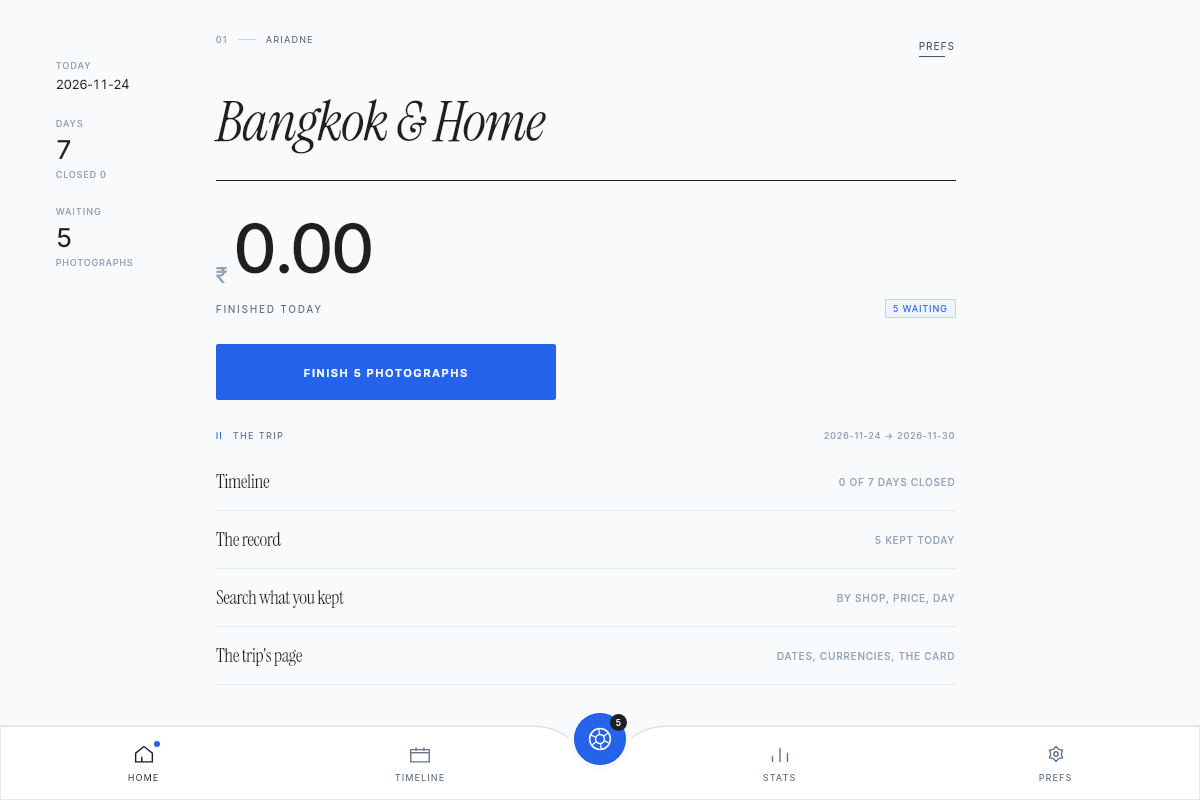
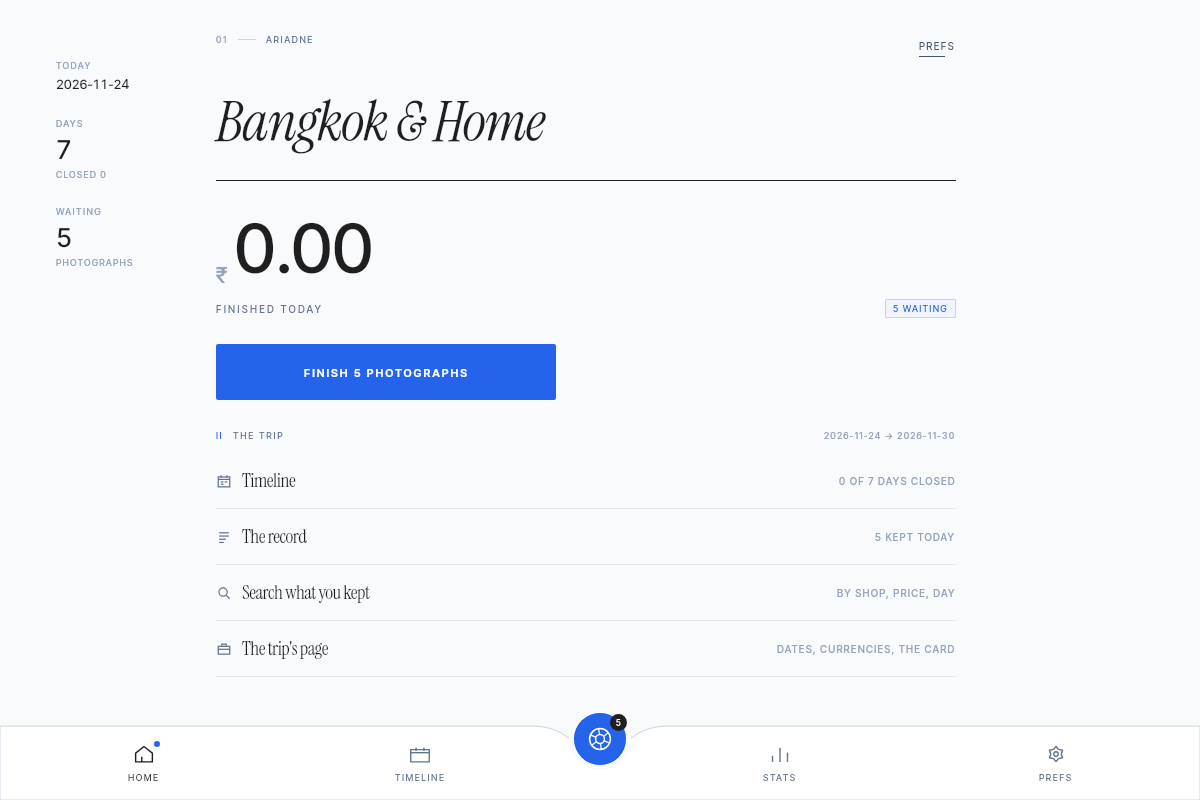
One blue thing per page
The recurring defect across the frames was not colour or type: it was two
competing primary actions, which is what a layout does when it has no opinion
about which choice matters.

Nightfall on a wide page had Confirm and Close the day as two identical
full-width blue bars. Closing is how you leave, not a second decision, so it is
now a hairline bar under a rule with a caption stating what it costs. Confirm is
the only blue.

The same page had the plate on a fixed 4:5 box inside a weighted row, which
overran the viewport and cut its caption off the bottom. The plate takes the
space that is left now, and the stack position and Earlier/Later sit under it.

The trip's page stacked See every day over Close the trip into a card; closing
is the action now and the record is a quiet exit. Its place and budget appear
here for the first time, hung under the dates with their glyphs.

Home's index was four rows of bare serif. Each row carries a glyph in the
hanging margin, so it scans as a list of places rather than four lines of type
that happen to be different words. Prefs got the same treatment.

Verified: 50 flow checks, 70 domain tests, 21 frames.

diff --git a/ui/app/src/commonMain/kotlin/com/ariadne/app/ui/pages/TripPage.kt b/ui/app/src/commonMain/kotlin/com/ariadne/app/ui/pages/TripPage.kt
@@ -25,6 +25,8 @@ import com.ariadne.design.Action
 import com.ariadne.design.Body
 import com.ariadne.design.Bone
 import com.ariadne.design.FigureRow
+import com.ariadne.design.Glyph
+import com.ariadne.design.Icon
 import com.ariadne.design.Label
 import com.ariadne.design.Numeral
 import com.ariadne.design.OutlineAction
@@ -44,7 +46,7 @@ import com.ariadne.model.Money
  * where "the trip is the container" becomes visible in one screen.
  */
 @Composable
-public fun TripPage(state: AppUiState, model: AppModel, paper: Paper) {
+public fun TripPage(state: AppUiState, model: AppModel, paper: Paper, wide: Boolean = false) {
     val trip = state.trip ?: return
     val closed = state.dayCards.count { it.isClosed }
 
@@ -53,7 +55,7 @@ public fun TripPage(state: AppUiState, model: AppModel, paper: Paper) {
             .fillMaxSize()
             .background(paper.bg)
             .verticalScroll(rememberScrollState())
-            .padding(horizontal = Bone.Margin, vertical = 26.dp),
+            .padding(horizontal = if (wide) Bone.MarginWide else Bone.Margin, vertical = 26.dp),
     ) {
         Masthead(
             number = "09",
@@ -69,7 +71,49 @@ public fun TripPage(state: AppUiState, model: AppModel, paper: Paper) {
         Row(Modifier.fillMaxWidth(), horizontalArrangement = Arrangement.SpaceBetween) {
             DateBlock("From", trip.startDate.iso, paper)
             DateBlock("To", trip.endDate.iso, paper)
-            DateBlock("Days", (closed + (state.dayCards.size - closed)).toString(), paper, alignEnd = true)
+            DateBlock("Days", state.dayCards.size.toString(), paper, alignEnd = true)
+        }
+
+        if (trip.place != null || trip.budgetMinor != null) {
+            Spacer(Modifier.height(20.dp))
+            Rule(paper, color = paper.edge)
+            Spacer(Modifier.height(14.dp))
+            Row(
+                Modifier.fillMaxWidth(),
+                horizontalArrangement = Arrangement.SpaceBetween,
+                verticalAlignment = Alignment.CenterVertically,
+            ) {
+                Row(verticalAlignment = Alignment.CenterVertically) {
+                    Icon(Glyph.Place, paper, size = 15.dp, color = paper.inkFaint)
+                    Spacer(Modifier.width(9.dp))
+                    Label(trip.place ?: "no place set", paper, color = paper.inkSoft, tracking = 1.3.sp)
+                }
+                trip.budgetMinor?.let { budget ->
+                    val spent = state.categoryTotals.sumOf { it.baseMinor }
+                    val left = budget - spent
+                    Row(verticalAlignment = Alignment.CenterVertically) {
+                        Icon(Glyph.Budget, paper, size = 15.dp, color = paper.inkFaint)
+                        Spacer(Modifier.width(9.dp))
+                        Label("fence", paper, color = paper.inkFaint, size = 9.sp, tracking = 1.4.sp)
+                        Spacer(Modifier.width(8.dp))
+                        Numeral(
+                            Money.ofMinor(budget).formatWithSymbol(trip.baseCurrency),
+                            paper,
+                            size = 13.sp,
+                            color = paper.inkSoft,
+                        )
+                        Spacer(Modifier.width(10.dp))
+                        Label(
+                            if (left >= 0) "${Money.ofMinor(left).formatWithSymbol(trip.baseCurrency)} left"
+                            else "${Money.ofMinor(-left).formatWithSymbol(trip.baseCurrency)} over",
+                            paper,
+                            color = paper.inkFaint,
+                            size = 9.sp,
+                            tracking = 1.2.sp,
+                        )
+                    }
+                }
+            }
         }
 
         Spacer(Modifier.height(24.dp))
@@ -113,9 +157,9 @@ public fun TripPage(state: AppUiState, model: AppModel, paper: Paper) {
         )
 
         Spacer(Modifier.height(30.dp))
-        OutlineAction("See every day", paper, { model.go(Route.Record(state.today)) })
-        Spacer(Modifier.height(10.dp))
-        Action("Close the trip into a card", paper, { model.go(Route.TripCard(trip.id)) }, accent = true)
+        Action("Close the trip into a card", paper, { model.closeTripIntoCard() }, accent = true)
+        Spacer(Modifier.height(12.dp))
+        QuietAction("Every day of it", paper, { model.go(Route.Record(state.today)) }, color = paper.inkMid)
     }
 }
 

diff --git a/ui/app/src/commonMain/kotlin/com/ariadne/app/ui/pages/NightfallPage.kt b/ui/app/src/commonMain/kotlin/com/ariadne/app/ui/pages/NightfallPage.kt
@@ -96,13 +96,34 @@ public fun NightfallPage(
         }
 
         if (wide) {
-            Row(Modifier.fillMaxWidth().weight(1f), horizontalArrangement = Arrangement.spacedBy(44.dp)) {
-                Column(Modifier.weight(1f)) {
-                    PhotographOf(capture, paper, Modifier.fillMaxWidth().aspectRatio(4f / 5f))
-                    Spacer(Modifier.height(12.dp))
-                    Label("Plate ${state.stackIndex + 1} of ${state.stack.size}", paper, color = paper.inkFaint)
+            Row(
+                Modifier.fillMaxWidth().weight(1f),
+                horizontalArrangement = Arrangement.spacedBy(44.dp),
+            ) {
+                // The plate takes the space that is left, not a fixed ratio: a 4:5
+                // box in a weighted row overran the viewport on a laptop.
+                Column(Modifier.weight(1.05f)) {
+                    Box(Modifier.weight(1f)) {
+                        PhotographOf(capture, paper, Modifier.fillMaxSize())
+                    }
+                    Spacer(Modifier.height(10.dp))
+                    Row(Modifier.fillMaxWidth(), verticalAlignment = Alignment.CenterVertically) {
+                        Label(
+                            "plate ${state.stackIndex + 1} of ${state.stack.size}",
+                            paper,
+                            color = paper.inkFaint,
+                            size = 9.sp,
+                            tracking = 1.4.sp,
+                        )
+                        Spacer(Modifier.weight(1f))
+                        QuietAction("Earlier", paper, { model.previous() }, color = paper.inkFaint)
+                        Spacer(Modifier.width(16.dp))
+                        QuietAction("Later", paper, { model.next() }, color = paper.inkFaint)
+                    }
                 }
-                Column(Modifier.weight(1f)) { Triage(state, model, paper, capture) }
+                Column(Modifier.weight(1f)) {
+                    Triage(state, model, paper, capture, wide = true)
+                }
             }
         } else {
             // Phone: the plate, the merchant and the typed amount stay put; the
@@ -138,7 +159,13 @@ public fun NightfallPage(
 }
 
 @Composable
-private fun Triage(state: AppUiState, model: AppModel, paper: Paper, capture: Capture) {
+private fun Triage(
+    state: AppUiState,
+    model: AppModel,
+    paper: Paper,
+    capture: Capture,
+    wide: Boolean = false,
+) {
     Column(Modifier.fillMaxWidth()) {
         Header(state, model, paper, capture)
         Spacer(Modifier.height(18.dp))
@@ -226,21 +253,24 @@ private fun Decisions(state: AppUiState, model: AppModel, paper: Paper, wide: Bo
                 paper,
                 { model.confirmCurrent(noAmount = true) },
             )
-            Spacer(Modifier.height(14.dp))
-            Row(Modifier.fillMaxWidth(), horizontalArrangement = Arrangement.SpaceBetween) {
-                QuietAction("Earlier", paper, { model.previous() }, color = paper.inkFaint)
-                QuietAction("Later", paper, { model.next() }, color = paper.inkFaint)
-            }
-            Spacer(Modifier.height(16.dp))
+            Spacer(Modifier.height(18.dp))
             Rule(paper)
-            Spacer(Modifier.height(14.dp))
-            Action("Close the day", paper, { model.closeDay((state.route as? Route.Nightfall)?.day) })
-            Spacer(Modifier.height(10.dp))
+            Spacer(Modifier.height(12.dp))
+            // The only blue thing on the page is Confirm. Closing the day is how you
+            // leave, not a second decision competing with the first — so it is a
+            // hairline bar, and the caption under it says what it costs you.
+            OutlineAction(
+                "Close the day",
+                paper,
+                { model.closeDay((state.route as? Route.Nightfall)?.day) },
+            )
+            Spacer(Modifier.height(9.dp))
             Body(
                 "Closing locks the day into the record. Long-press any card to open it again.",
                 paper,
                 color = paper.inkFaint,
-                size = 12.sp,
+                size = 11.sp,
+                lineHeight = 16.sp,
             )
         } else {
             Row(

diff --git a/ui/app/src/commonMain/kotlin/com/ariadne/app/ui/pages/TabPages.kt b/ui/app/src/commonMain/kotlin/com/ariadne/app/ui/pages/TabPages.kt
@@ -193,16 +193,16 @@ public fun HomePage(state: AppUiState, model: AppModel, paper: Paper, wide: Bool
 
         SectionHead("II", "the trip", paper, trailing = "${trip.startDate.iso} → ${trip.endDate.iso}")
 
-        NavRow("Timeline", "${state.dayCards.count { it.isClosed }} of ${state.dayCards.size} days closed", paper) {
+        NavRow(Glyph.Date, "Timeline", "${state.dayCards.count { it.isClosed }} of ${state.dayCards.size} days closed", paper) {
             model.go(Route.Timeline)
         }
-        NavRow("The record", "${state.dayCaptures.size} kept today", paper) {
+        NavRow(Glyph.Record, "The record", "${state.dayCaptures.size} kept today", paper) {
             model.go(Route.Record(state.today))
         }
-        NavRow("Search what you kept", "by shop, price, day", paper) {
+        NavRow(Glyph.Search, "Search what you kept", "by shop, price, day", paper) {
             model.go(Route.Search)
         }
-        NavRow("The trip's page", "dates, currencies, the card", paper) {
+        NavRow(Glyph.Trip, "The trip's page", "dates, currencies, the card", paper) {
             model.go(Route.Trip)
         }
 
@@ -220,17 +220,28 @@ public fun HomePage(state: AppUiState, model: AppModel, paper: Paper, wide: Bool
 }
 
 @Composable
-private fun NavRow(label: String, detail: String, paper: Paper, onClick: () -> Unit) {
+private fun NavRow(
+    glyph: Glyph,
+    label: String,
+    detail: String,
+    paper: Paper,
+    onClick: () -> Unit,
+) {
     Column {
         Row(
             Modifier
                 .fillMaxWidth()
                 .pointerInput(label) { detectTapGestures(onTap = { onClick() }) }
-                .padding(vertical = 16.dp),
-            horizontalArrangement = Arrangement.SpaceBetween,
+                .padding(vertical = 15.dp),
             verticalAlignment = Alignment.CenterVertically,
         ) {
+            // A glyph in the hanging margin, so the index scans as a list of places
+            // rather than four lines of serif that happen to be different words.
+            Box(Modifier.width(26.dp)) {
+                Icon(glyph, paper, size = 16.dp, color = paper.inkSoft)
+            }
             Title(label, paper, size = 19.sp)
+            Spacer(Modifier.weight(1f))
             Label(detail, paper, color = paper.inkFaint, tracking = 1.2.sp)
         }
         Rule(paper)

diff --git a/ui/app/src/commonMain/kotlin/com/ariadne/app/ui/AriadneApp.kt b/ui/app/src/commonMain/kotlin/com/ariadne/app/ui/AriadneApp.kt
@@ -127,7 +127,7 @@ private fun Destination(
         Route.Stats -> StatsPage(state, model, paper, wide)
         Route.Prefs -> PrefsPage(state, model, paper, wide)
 
-        Route.Trip -> TripPage(state, model, paper)
+        Route.Trip -> TripPage(state, model, paper, wide)
 
         Route.Capture -> CapturePage(
             state = state,

diff --git a/BUILD-STATUS.md b/BUILD-STATUS.md
@@ -35,6 +35,28 @@ ones the four app targets compile.
 | Android/iOS on-device run | no SDK, no Xcode here | low — the Ariadne code in both now compiles against the real schema |
 | iOS linking | no Kotlin/Native here | unknown — nothing below the entry point is iOS-specific |
 
+## Hierarchy pass — one blue thing per page
+
+Looking at the rendered frames side by side, the recurring defect was not colour
+or type: it was **two competing primary actions**, which is what a generated
+layout does when it has no opinion about which choice matters.
+
+- **Nightfall (wide)** had "Confirm" and "Close the day" as two identical
+  full-width blue bars, one above the other. Closing the day is how you *leave*,
+  not a second decision, so it is now a hairline bar under a rule with a caption
+  that says what it costs you. Confirm is the only blue on the page.
+- **Nightfall (wide)** also had the plate on a fixed 4:5 box inside a weighted
+  row, which overran the viewport and cut the caption off the bottom. The plate
+  now takes the space that is left, and the stack position and Earlier/Later
+  moved under it where they belong.
+- **The trip's page** stacked "See every day" over "Close the trip into a card".
+  Closing is now the single action; the record is a quiet exit under it. The
+  place and the budget also appear here now, hung under the dates with their
+  glyphs, because they are facts about the trip and this is the trip's page.
+- **Home's index** was four rows of bare serif. Each row now carries its glyph in
+  the hanging margin, so the block scans as a list of places instead of four
+  lines that happen to be different words. The same treatment reached Prefs.
+
 ## The camera
 
 `AndroidCamera` is a real CameraX binding: `ProcessCameraProvider` bound to the
